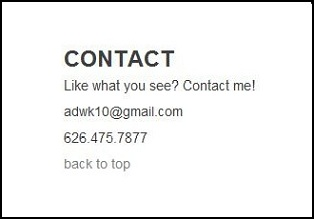
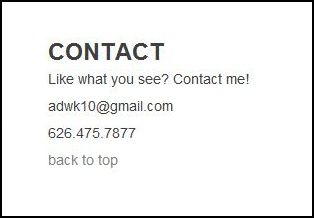
Need Better Screenshots

diff --git a/index.html b/index.html
@@ -35,21 +35,21 @@
 
     <div class="container">
 
-      <div class="row">
+      <div class="header row">
 
 		<div class="logo span2">
 			<a href="./index.html">		
-				<img src="images/ALLAN.jpg">
+				<img src="images/ALLAN.jpg" width=180>
 			</a>
 		</div>	
 	  
 		<div class="navigation span13 offset1">
 			<ul>
 				<li><a href="projects/allan_designs.html">PROJECT 1</a></li>
-				<li><a href="projects/allan_designs.html">PROJECT 2</a></li>				
+				<li><a href="projects/jen_gs.html">PROJECT 2</a></li>
 				<li><a href="projects/allan_designs.html">PROJECT 3</a></li>
 				<li><a href="projects/about_me.html">ABOUT ME</a></li>
-				<li><a href="projects/project_page.html">CONTACT</a></li>
+				<li><a href="projects/contact_page.html">CONTACT</a></li>
 			</ul>
 		</div>	  
 				
@@ -66,8 +66,8 @@
         <div class="projects span16">
           <h2>PROJECTS</h2>
 		  <a href="projects/allan_designs.html"><img src="images/ALLAN_DESIGNS-small.jpg"></a>
-		  <a href="projects/allan_designs.html"><img src="images/ALLAN_DESIGNS-small.jpg"></a>
-		  <a href="projects/allan_designs.html"><img src="images/ALLAN_DESIGNS-small.jpg"></a>
+		  <a href="projects/jen_gs.html"><img src="images/JENGS-small.jpg"></a>
+		  <a href="projects/ovefelt_se.html"><img src="images/OVEFELT-small.jpg"></a>
 
 		  
 		  <p class="backtotop">
@@ -78,10 +78,13 @@
 		<div class="about span-two-thirds">
           <h2>ABOUT ME</h2>
           <p>
-		  O Lord God Almighty, not the God of the philosophers and the wise but the God of the prophets and apostles; 
-		  and better than all, the God and Father of our Lord Jesus Christ, may I express Thee unblamed? 
-		  They that know Thee may call upon Thee as other than Thou art, and so worship not Thee but a creature of their own fancy; 
-		  therefore enlighten our minds that we may know Thee as Thou art, so that we may perfectly love Thee and worthily praise Thee.
+		  HI. As you probably already know, my name is Allan Kwan, and I am an interaction + user experience designer.
+		  Hopefully, you've already had a chance to look at the projects I've either worked on personally or greatly admired.
+		  But let's get back to the "About Me" part of this section. 
+		  I am currently studying as an undergraduate at UC San Diego, working towards a B.S. in Cognitive Science, specializing in HCI.
+		  Initially, I went in as an Economics major, hoping to pursue business in the future. However, as a thriving photographer, I began to see that beauty can be reflected through multiple forms of media.
+		  And that's when I found Cognitive Science HCI, a field that reflected the combined beauty of the mind and design.
+		  So have fun, take a look around, and enjoy design for all it's worth.
 		  </p>	
 
 		  <p class="backtotop">
@@ -95,16 +98,17 @@
 
         <div class="contact span16">
           <h2>CONTACT</h2>
-          <p>Like what you see? Contact me!</p>
-		  <p>adwk10@gmail.com</p>
+		  <p>Allan Kwan</p>
 		  <p>626.475.7877</p>
+		  <p>adwk10@gmail.com</p>
+		  
 		  <p class="backtotop">
 			<a href="#">back to top</a>
 		  </p>
 		</div>
         
 		<div class="footer span16">
-		  <p>Allan Kwan | <a href="https://mail.google.com/mail/?view=cm&fs=1&tf=1&to=adwk10@gmail.com" title="[GMCP] Compose new mail to adwk10@gmail.com" target="_blank" rel="noreferrer">adwk10@gmail.com</a> | 626.475.7877</p>
+		  <p> Allan Kwan | <a href="https://mail.google.com/mail/?view=cm&fs=1&tf=1&to=adwk10@gmail.com" title="[GMCP] Compose new mail to adwk10@gmail.com" target="_blank" rel="noreferrer">adwk10@gmail.com</a> | 626.475.7877</p>
 		</div>
 
       </div> <!-- end row -->

diff --git a/projects/about_me.html b/projects/about_me.html
@@ -2,8 +2,8 @@
 <html lang="en">
   <head>
     <meta charset="utf-8">
-    <title>Allan Designs | Interaction Designer</title>
-    <meta name="Allan Designs Project" content="Project Description">
+    <title>Allan Designs | About Me</title>
+    <meta name="About Me" content="About Me Description">
     <meta name="Allan Kwan" content="Allan Kwan">
 
     <!-- Le HTML5 shim, for IE6-8 support of HTML elements -->
@@ -37,17 +37,17 @@
 
 		<div class="logo span2">
 			<a href="../index.html">		
-				<img src="images/ALLAN.jpg">
+				<img src="images/ALLAN.jpg" width=180>
 			</a>
 		</div>	
 	  
 		<div class="navigation span13 offset1">
 			<ul>
-				<li><a href="projects/allan_designs.html">PROJECT 1</a></li>
-				<li><a href="projects/allan_designs.html">PROJECT 2</a></li>				
-				<li><a href="projects/allan_designs.html">PROJECT 3</a></li>
-				<li><a href="projects/about_me.html">ABOUT ME</a></li>
-				<li><a href="projects/project_page.html">CONTACT</a></li>
+				<li><a href="./allan_designs.html">PROJECT 1</a></li>
+				<li><a href="./jen_gs.html">PROJECT 2</a></li>				
+				<li><a href="./ovefelt_se.html">PROJECT 3</a></li>
+				<li><a href="./about_me.html">ABOUT ME</a></li>
+				<li><a href="./contact_page.html">CONTACT</a></li>
 			</ul>
 		</div>	  
 				
@@ -61,10 +61,13 @@
 		
 		<div class="allan span8">
           <p>
-		  O Lord God Almighty, not the God of the philosophers and the wise but the God of the prophets and apostles; 
-		  and better than all, the God and Father of our Lord Jesus Christ, may I express Thee unblamed? 
-		  They that know Thee may call upon Thee as other than Thou art, and so worship not Thee but a creature of their own fancy; 
-		  therefore enlighten our minds that we may know Thee as Thou art, so that we may perfectly love Thee and worthily praise Thee.
+		  HI. As you probably already know, my name is Allan Kwan, and I am an interaction + user experience designer.
+		  Hopefully, you've already had a chance to look at the projects I've either worked on personally or greatly admired.
+		  But let's get back to the "About Me" part of this section. 
+		  I am currently studying as an undergraduate at UC San Diego, working towards a B.S. in Cognitive Science, specializing in HCI.
+		  Initially, I went in as an Economics major, hoping to pursue business in the future. However, as a thriving photographer, I began to see that beauty can be reflected through multiple forms of media.
+		  And that's when I found Cognitive Science HCI, a field that reflected the combined beauty of the mind and design.
+		  So have fun, take a look around, and enjoy design for all it's worth.
 		  </p>	
 		<br></br>
 		<br></br>

diff --git a/projects/allan_designs.html b/projects/allan_designs.html
@@ -2,7 +2,7 @@
 <html lang="en">
   <head>
     <meta charset="utf-8">
-    <title>Allan Designs | Interaction Designer</title>
+    <title>Allan Designs | Project 1</title>
     <meta name="Allan Designs Project" content="Project Description">
     <meta name="Allan Kwan" content="Allan Kwan">
 
@@ -37,17 +37,17 @@
 
 		<div class="logo span2">
 			<a href="../index.html">		
-				<img src="images/ALLAN.jpg">
+				<img src="images/ALLAN.jpg" width=180>
 			</a>
 		</div>	
 	  
 		<div class="navigation span13 offset1">
 			<ul>
-				<li><a href="projects/allan_designs.html">PROJECT 1</a></li>
-				<li><a href="projects/allan_designs.html">PROJECT 2</a></li>				
-				<li><a href="projects/allan_designs.html">PROJECT 3</a></li>
-				<li><a href="projects/about_me.html">ABOUT ME</a></li>
-				<li><a href="projects/project_page.html">CONTACT</a></li>
+				<li><a href="./allan_designs.html">PROJECT 1</a></li>
+				<li><a href="./jen_gs.html">PROJECT 2</a></li>				
+				<li><a href="./ovefelt_se.html">PROJECT 3</a></li>
+				<li><a href="./about_me.html">ABOUT ME</a></li>
+				<li><a href="./contact_page.html">CONTACT</a></li>
 			</ul>
 		</div>	  
 				

diff --git a/stylesheets/main.css b/stylesheets/main.css
@@ -17,9 +17,21 @@ display:inline;
 padding:37px
 }
 
-a:link, a:visited
+a:link 
 {
 color:#808080
+}
+
+a:visited
+{
+color:#808080;
+}
+
+a:hover
+{
+color:black;
+text-decoration:none;
+font-weight:bold;
 }
 
 .projects
@@ -41,19 +53,23 @@ margin-right:auto;
 margin-top:100px;
 }
 
+.contactinfo
+{
+font-size:28px;
+}
+
 .self
 {
 padding-top:90px;
 margin-top:0.8em;
 }
 
-.fancybox
+.btn
 {
-height:219px;
-width:319px;
+color:gray;
 }
 
 .footer
-{
+{ 
 margin-top:50px;
 }

diff --git a/projects/stylesheets/main.css b/projects/stylesheets/main.css
@@ -1,7 +1,7 @@
 h1
 {
 font-size:65px;
-font-family:"Cambria";
+font-family:"Arial";
 margin-top:100px;
 }
 
@@ -22,6 +22,11 @@ a:link, a:visited
 color:#808080
 }
 
+.header
+{
+text-align:center;
+}
+
 .projects
 {
 margin-top:100px;
@@ -34,12 +39,16 @@ margin-right:auto;
 margin-top:100px;
 margin-left:auto;
 margin-right:auto;
+}
 
+.contact
+{
+margin-top:100px;
 }
 
 .self
 {
-padding-top:100px;
+padding-top:90px;
 margin-top:0.8em;
 }
 
